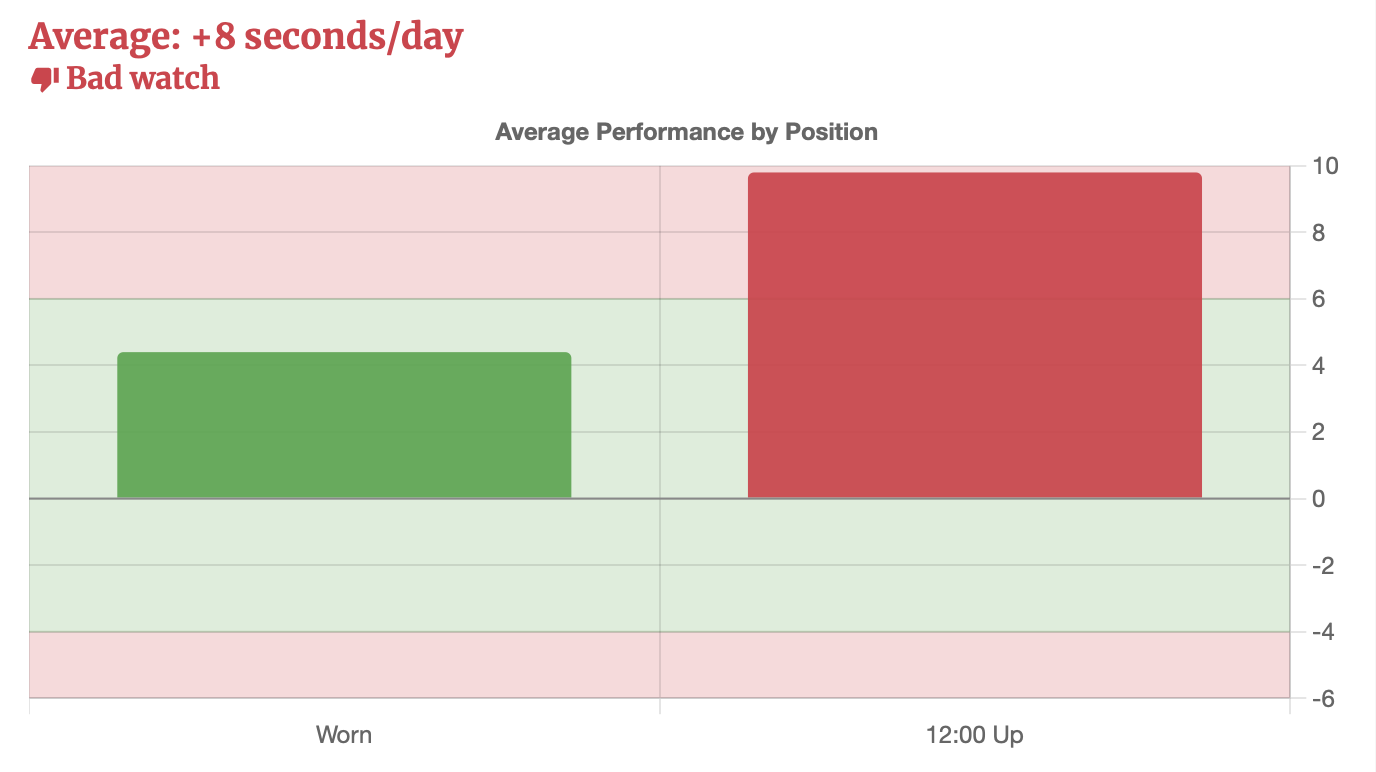
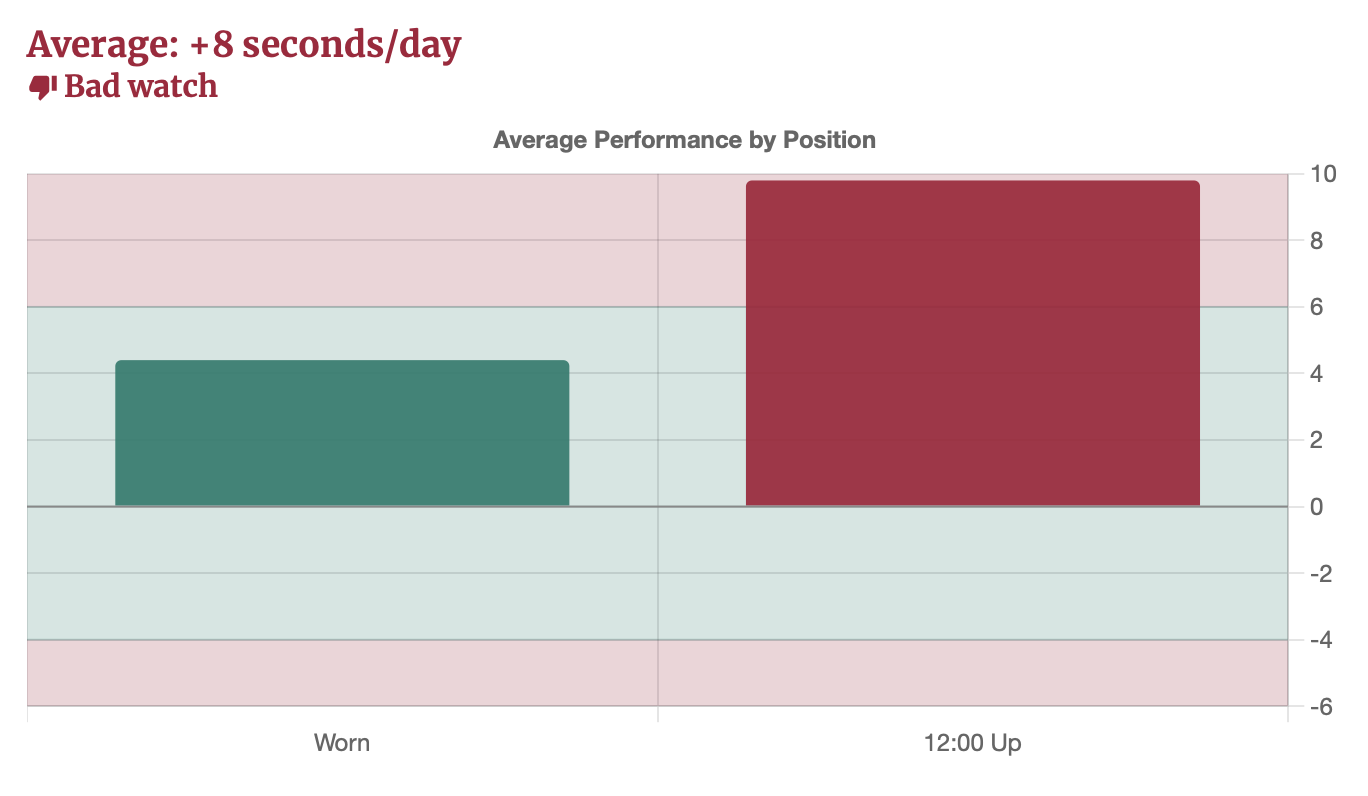
Homepage screenshots to match new brand colors

Changed region(s): [[0.0, 0.1554, 0.9825, 0.9637], [0.0, 0.0311, 0.3377, 0.1244]]

diff --git a/built/components/home/home-templates.js b/built/components/home/home-templates.js
@@ -93,7 +93,7 @@ gwbw-icon.between-screenshots {
 
 <div class="page-title">
 	<div>
-		<img class="jewel-logo" src="assets/images/jewel.svg?v=1" alt="jewel logo" style="aspect-ratio: 1 / 1;">
+		<img class="jewel-logo" src="assets/images/jewel.svg?v=2" alt="jewel logo" style="aspect-ratio: 1 / 1;">
 	</div>
 	<div>
 		<h1>
@@ -118,7 +118,7 @@ gwbw-icon.between-screenshots {
 <div>
 	<br><br>
 	<div class="feature-photo">
-		<img src="assets/images/photos/3879-wrist.jpg?v=2" alt="photo of chronograph watch on wrist" style="aspect-ratio: 1000 / 450;">
+		<img src="assets/images/photos/3879-wrist.jpg?v=3" alt="photo of chronograph watch on wrist" style="aspect-ratio: 1000 / 450;">
 	</div>
 	<br><br><br><br>
 </div>
@@ -129,7 +129,7 @@ gwbw-icon.between-screenshots {
 		Quickly understand how the timing of your watch drifts against perfect time and whether it falls within expected accuracy specs.
 	</p>
 	<br>
-	<img class="feature" src="assets/images/screenshots/example-deviation-graph.png" alt="screenshot of line graph" style="1378 / 794;">
+	<img class="feature" src="assets/images/screenshots/example-deviation-graph.png?v=2" alt="screenshot of line graph" style="1378 / 794;">
 	<br><br><br><br>
 </div>
 
@@ -139,7 +139,7 @@ gwbw-icon.between-screenshots {
 		Gain insight into how different positions affect the time keeping of your watch so you can use them to your advantage.
 	</p>
 	<br>
-	<img class="feature" src="assets/images/screenshots/example-positions-graph.png" alt="screenshot of bar graph" style="aspect-ratio: 1480 / 1410;">
+	<img class="feature" src="assets/images/screenshots/example-positions-graph.png?v=2" alt="screenshot of bar graph" style="aspect-ratio: 1480 / 1410;">
 	<br><br><br><br>
 </div>
 
@@ -149,9 +149,9 @@ gwbw-icon.between-screenshots {
 		Slice and dice the data any way you want; zoom in on a particular section of a timing session to get a closer look.
 	</p>
 	<br>
-	<img class="feature" src="assets/images/screenshots/example-measures.jpg" alt="screenshot of list of measures" style="aspect-ratio: 1495 / 1142;">
+	<img class="feature" src="assets/images/screenshots/example-measures.jpg?v=2" alt="screenshot of list of measures" style="aspect-ratio: 1454 / 1154;">
 	<gwbw-icon class="between-screenshots" name="arrow_downward"></gwbw-icon>
-	<img class="feature" src="assets/images/screenshots/example-interval.png" alt="screenshot of positions graph" style="aspect-ratio: 1376 / 772;">
+	<img class="feature" src="assets/images/screenshots/example-interval.png?v=2" alt="screenshot of positions graph" style="aspect-ratio: 1376 / 772;">
 	<br><br><br><br>
 </div>
 

diff --git a/src/components/home/home-templates.ts b/src/components/home/home-templates.ts
@@ -96,7 +96,7 @@ gwbw-icon.between-screenshots {
 
 <div class="page-title">
 	<div>
-		<img class="jewel-logo" src="assets/images/jewel.svg?v=1" alt="jewel logo" style="aspect-ratio: 1 / 1;">
+		<img class="jewel-logo" src="assets/images/jewel.svg?v=2" alt="jewel logo" style="aspect-ratio: 1 / 1;">
 	</div>
 	<div>
 		<h1>
@@ -121,7 +121,7 @@ gwbw-icon.between-screenshots {
 <div>
 	<br><br>
 	<div class="feature-photo">
-		<img src="assets/images/photos/3879-wrist.jpg?v=2" alt="photo of chronograph watch on wrist" style="aspect-ratio: 1000 / 450;">
+		<img src="assets/images/photos/3879-wrist.jpg?v=3" alt="photo of chronograph watch on wrist" style="aspect-ratio: 1000 / 450;">
 	</div>
 	<br><br><br><br>
 </div>
@@ -132,7 +132,7 @@ gwbw-icon.between-screenshots {
 		Quickly understand how the timing of your watch drifts against perfect time and whether it falls within expected accuracy specs.
 	</p>
 	<br>
-	<img class="feature" src="assets/images/screenshots/example-deviation-graph.png" alt="screenshot of line graph" style="1378 / 794;">
+	<img class="feature" src="assets/images/screenshots/example-deviation-graph.png?v=2" alt="screenshot of line graph" style="1378 / 794;">
 	<br><br><br><br>
 </div>
 
@@ -142,7 +142,7 @@ gwbw-icon.between-screenshots {
 		Gain insight into how different positions affect the time keeping of your watch so you can use them to your advantage.
 	</p>
 	<br>
-	<img class="feature" src="assets/images/screenshots/example-positions-graph.png" alt="screenshot of bar graph" style="aspect-ratio: 1480 / 1410;">
+	<img class="feature" src="assets/images/screenshots/example-positions-graph.png?v=2" alt="screenshot of bar graph" style="aspect-ratio: 1480 / 1410;">
 	<br><br><br><br>
 </div>
 
@@ -152,9 +152,9 @@ gwbw-icon.between-screenshots {
 		Slice and dice the data any way you want; zoom in on a particular section of a timing session to get a closer look.
 	</p>
 	<br>
-	<img class="feature" src="assets/images/screenshots/example-measures.jpg" alt="screenshot of list of measures" style="aspect-ratio: 1495 / 1142;">
+	<img class="feature" src="assets/images/screenshots/example-measures.jpg?v=2" alt="screenshot of list of measures" style="aspect-ratio: 1454 / 1154;">
 	<gwbw-icon class="between-screenshots" name="arrow_downward"></gwbw-icon>
-	<img class="feature" src="assets/images/screenshots/example-interval.png" alt="screenshot of positions graph" style="aspect-ratio: 1376 / 772;">
+	<img class="feature" src="assets/images/screenshots/example-interval.png?v=2" alt="screenshot of positions graph" style="aspect-ratio: 1376 / 772;">
 	<br><br><br><br>
 </div>
 
